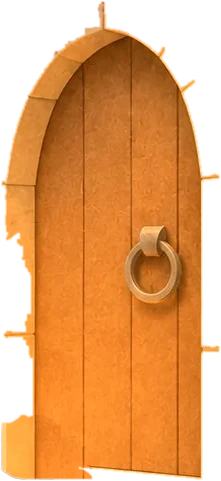
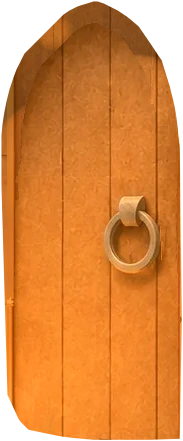
Madrugada entre los árboles, puerta solo de madera y final que se lee entero
- El cielo de madrugada incluye también el trozo de cielo entre los árboles,
  que se quedaba de noche.
- La puerta: la silueta sale del hueco real de la lámina abierta y sus bordes
  se rellenan con la propia veta de la madera, sin franjas de piedra ni restos
  de la rosa. Máscara y puerta usan la misma silueta.
- Final: el último pasaje llega al 100 % al terminar el scroll (antes se quedaba
  a medias), es más largo y cada frase entra por separado y se queda.

Claude-Session: https://claude.ai/code/session_01U2YmjohacyumAbuxLH3kyg

diff --git a/web/cuentos/raton-rosa/cuento.css b/web/cuentos/raton-rosa/cuento.css
@@ -44,7 +44,7 @@ body{margin:0;min-width:280px;background:var(--papel);color:var(--tinta);-webkit
 .pasaje{position:relative;min-height:126vh;min-height:126svh;display:flow-root;pointer-events:none}
 .pasaje--portada{min-height:132svh}
 .pasaje--puerta{min-height:170svh}                     /* pausa sin texto: la puerta se abre */
-.pasaje--amanecer{min-height:230svh}
+.pasaje--amanecer{min-height:330svh}
 .texto{position:sticky;top:10vh;top:10svh;width:max-content;max-width:min(86vw,590px);margin:0 0 0 8vw;color:var(--tinta);
   font:500 clamp(2.05rem,4.8vw,4.5rem)/1.06 var(--serif);letter-spacing:-.014em;text-wrap:balance;
   text-shadow:0 0 14px rgba(250,243,227,.95),0 0 4px rgba(250,243,227,.9)}
@@ -72,7 +72,7 @@ html.js .texto{opacity:0}
 @media(max-width:700px){
  .pasaje{min-height:120svh}
  .pasaje--puerta{min-height:160svh}
- .pasaje--amanecer{min-height:210svh}
+ .pasaje--amanecer{min-height:310svh}
  .texto{top:8svh;max-width:85vw;margin-left:7vw;font-size:clamp(1.95rem,8.2vw,3.2rem);line-height:1.06}
  .pasaje--portada .texto{top:11svh;max-width:85vw;margin-left:8vw}
  .pasaje--busqueda .texto{max-width:78vw;margin-right:7vw}
@@ -116,10 +116,10 @@ html.js .texto{opacity:0}
 .cuadro--casa{perspective:900px;perspective-origin:74% 62%}
 /* La puerta gira dentro de una máscara con la silueta exacta de la madera:
    nunca pisa la piedra del arco. La bisagra está metida en el hueco, como en la lámina. */
-.hueco-puerta,.cuadro>.hoja-cerrada{position:absolute;inset:auto;left:61.849%;top:49.462%;width:23.486%;height:28.768%;z-index:3}
+.hueco-puerta,.cuadro>.hoja-cerrada{position:absolute;inset:auto;left:64.081%;top:51.256%;width:19.447%;height:26.376%;z-index:3}
 .hueco-puerta{pointer-events:none;perspective:900px;perspective-origin:60% 50%;
   -webkit-mask:url('img/hueco-mascara.png') 0 0/100% 100% no-repeat;mask:url('img/hueco-mascara.png') 0 0/100% 100% no-repeat}
-.hoja-puerta{position:absolute;inset:0;width:100%;height:100%;transform-origin:80.5% 50%;will-change:transform}
+.hoja-puerta{position:absolute;inset:0;width:100%;height:100%;transform-origin:85.8% 50%;will-change:transform}
 /* La rosa del escalón: fija, por delante de la puerta */
 .cuadro>.marco-puerta{inset:auto;left:59.405%;top:74.163%;width:12.859%;height:4.665%;z-index:4}
 /* La luna baja hasta esconderse tras las colinas */

diff --git a/web/cuentos/raton-rosa/cuento.js b/web/cuentos/raton-rosa/cuento.js
@@ -49,8 +49,8 @@
     },
     // Ya de madrugada: la puerta gira sobre su bisagra, sale la luz, aparece el ratón blanco y se sonroja
     7: (c, p) => {
-      const abre = suave(interv(p, .06, .4));
-      const rubor = suave(interv(p, .42, .6));
+      const abre = suave(interv(p, .04, .32));
+      const rubor = suave(interv(p, .33, .47));
       const hoja = c.querySelector('.hoja-puerta');
       // gira hacia dentro sobre una bisagra metida en el hueco hasta quedar de canto,
       // oscureciéndose; al terminar de abrirse ya no se ve
@@ -86,8 +86,10 @@
     let actual = 0;
     for (let i = 0; i < posiciones.length; i++) if (marcador >= posiciones[i].inicio) actual = i;
     const etapa = posiciones[actual];
-    const progreso = limite((marcador - etapa.inicio) / etapa.alto);
     const ultimo = actual === escenas.length - 1;
+    // el último pasaje no puede bajar del todo (se acaba la página): su progreso llega a 1 al final del scroll
+    const fin = ultimo ? Math.max(1, document.documentElement.scrollHeight - window.innerHeight + window.innerHeight * .28 - etapa.inicio) : etapa.alto;
+    const progreso = limite((marcador - etapa.inicio) / fin);
     const desde = num(escenas[actual], 'mezcla', .8);   // dónde empieza el fundido a la siguiente
     const mezcla = ultimo ? 0 : suave(interv(progreso, desde, .98));
 
@@ -107,6 +109,16 @@
       const texto = pasaje.querySelector('.texto');
       if (i !== actual) { texto.style.opacity = '0'; return; }
       const e = num(pasaje, 'texto', .04);                // data-texto: el texto espera hasta ahí
+      if (ultimo && texto.children && texto.children.length > 1) {
+        // final: cada frase entra por separado, despacio, y se queda para leerla con calma
+        texto.style.opacity = '1'; texto.style.transform = 'none';
+        [...texto.children].forEach((frase, k) => {
+          const a = e + k * .12, entra = suave(interv(progreso, a, a + .16));
+          frase.style.opacity = entra.toFixed(3);
+          frase.style.transform = `translateY(${(1 - entra) * 14}px)`;
+        });
+        return;
+      }
       const entrada = i === 0 ? 1 : interv(progreso, e, e + .13);
       const salida = i === pasajes.length - 1 ? 1 : 1 - interv(progreso, .73, .9);
       texto.style.opacity = String(Math.min(entrada, salida));

diff --git a/web/cuentos/raton-rosa/index.html b/web/cuentos/raton-rosa/index.html
@@ -44,7 +44,7 @@
       </div>
     </div>
     <!-- 7: de madrugada se abre la puerta, aparece el ratón blanco, se sonroja y llega el final -->
-    <div class="lamina lamina--amanecer" data-lamina="7" data-z0=".10" data-z="0" data-camara=".6">
+    <div class="lamina lamina--amanecer" data-lamina="7" data-z0=".10" data-z="0" data-camara=".5">
       <div class="cuadro cuadro--casa">
         <img src="img/06-madrugada.webp" alt="">
         <span class="luz-puerta"></span>
@@ -79,7 +79,7 @@
     <section class="pasaje pasaje--puerta" data-pasaje="6" style="--imagen:url('img/05-puerta-estatica.webp')" aria-label="La puerta se abre y el ratón blanco descubre la rosa">
       <div class="texto" aria-hidden="true"></div>
     </section>
-    <section class="pasaje pasaje--amanecer" data-pasaje="7" data-texto=".62" style="--imagen:url('img/06-madrugada.webp')" aria-label="El final del cuento">
+    <section class="pasaje pasaje--amanecer" data-pasaje="7" data-texto=".5" style="--imagen:url('img/06-madrugada.webp')" aria-label="El final del cuento">
       <div class="texto">
         <p>Desde entonces se sabe que los regalos pequeños también llegan lejos.</p>
         <p class="ultimo">Solo hace falta alguien que los lleve.</p>
